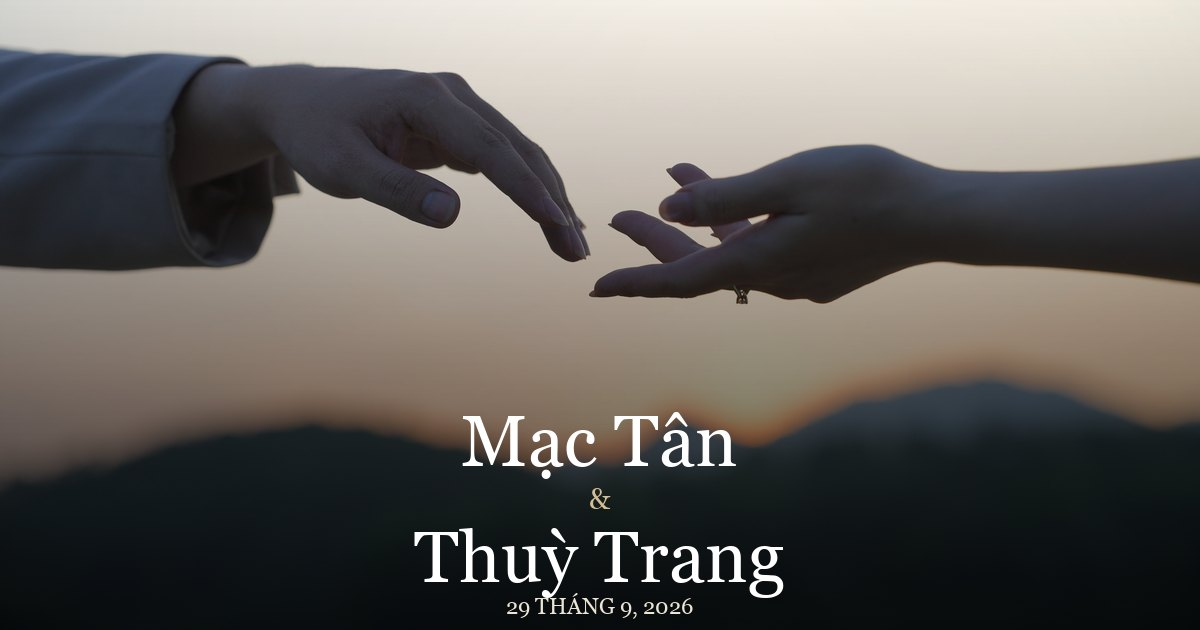
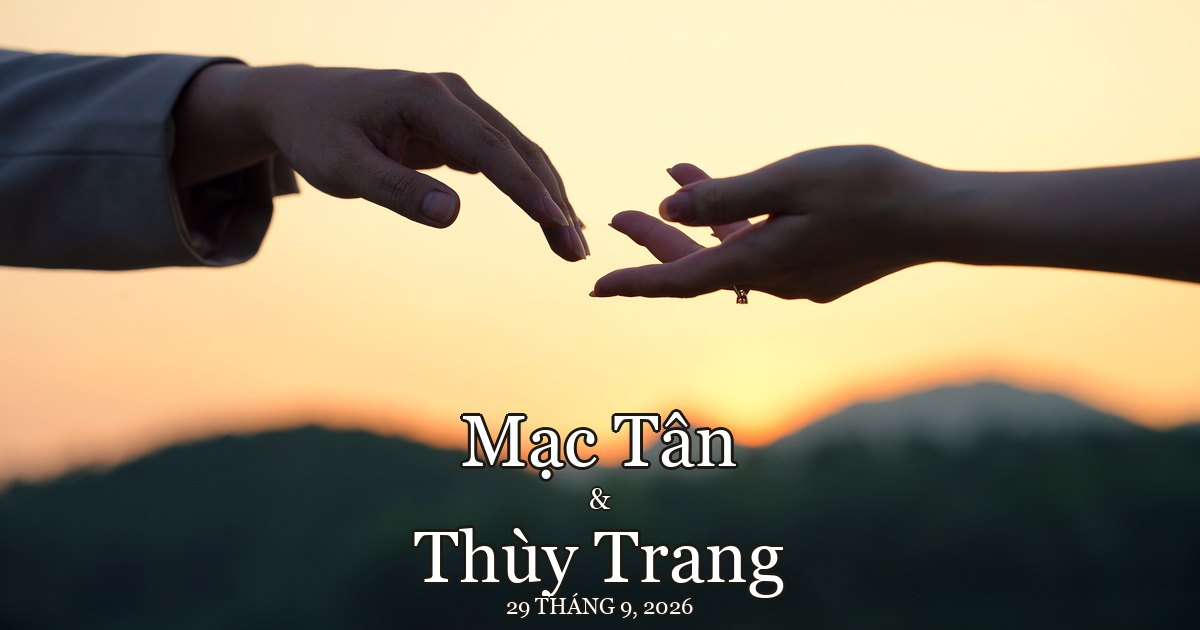
Kết nối form RSVP và chỉnh màu ảnh mở đầu
RSVP:
- Gắn URL Apps Script (/exec). Đã kiểm chứng: doGet trả {"ok":true}, doPost ghi
  được vào Sheet, và phản hồi có header CORS nên trình duyệt đọc được.
- Bỏ hẳn phương án dự phòng gửi bằng mode:'no-cors'. Kiểu gửi đó không đọc được
  phản hồi, nên endpoint sai thì trang vẫn báo "cảm ơn bạn" trong khi phản hồi
  rơi vào hư không. Với thiệp cưới, mất trắng danh sách khách tệ hơn nhiều so
  với một thông báo lỗi nhìn thấy được.
- Chặn sẵn trường hợp dán nhầm URL /dev: đó là bản thử nghiệm chỉ chạy khi chủ
  script đang đăng nhập, khách sẽ bị Google đòi đăng nhập.

Ảnh mở đầu:
- Chỉnh màu nướng thẳng vào file thay vì phủ lớp lên trên. Đường cong từng kênh
  đẩy đỏ ở vùng sáng và kéo lam xuống để ra sắc vàng đồng của hoàng hôn, làm sâu
  vùng tối để hai bàn tay thành bóng có khối.
- Độ lệch chuẩn kênh đỏ tăng 92.6 → 108.9, kênh lục 83.0 → 95.2: ảnh nét hơn
  chứ không phải bị làm phẳng. File còn 47 KB vì ảnh nhiều dải chuyển mượt.
- Vành bóng quanh chữ nhờ đó cũng khá lên: 15.3:1 desktop, 10.5:1 điện thoại.
- Ảnh xem trước khi gửi Zalo dùng cùng bản chỉnh màu.
- Kèm scripts/grade-hero.py để chỉnh lại hoặc đổi thông số về sau.

diff --git a/src/lib/rsvp.js b/src/lib/rsvp.js
@@ -4,16 +4,21 @@ import { config } from '../config'
  * Gửi phản hồi RSVP tới Google Apps Script Web App.
  *
  * Dùng Content-Type "text/plain" một cách có chủ đích: đây là "simple request"
- * nên trình duyệt không gửi preflight OPTIONS — thứ mà Apps Script không xử lý
+ * nên trình duyệt không gửi preflight OPTIONS - thứ mà Apps Script không xử lý
  * được. Phía Apps Script vẫn đọc được JSON qua e.postData.contents.
- *
- * Nếu vẫn bị CORS chặn, ta gửi lại ở chế độ no-cors: yêu cầu vẫn tới nơi và
- * ghi được vào Sheet, chỉ là trình duyệt không cho đọc phản hồi.
  */
 export async function submitRsvp(payload) {
   const endpoint = config.rsvp.endpoint?.trim()
+
   if (!endpoint) {
     return { ok: false, reason: 'not-configured' }
+  }
+
+  /* URL kết thúc bằng /dev là bản thử nghiệm của Apps Script: chỉ chạy khi
+     chính chủ script đang đăng nhập. Khách mở lên sẽ bị Google đòi đăng nhập
+     và phản hồi mất trắng. Bắt lỗi ngay từ đây thay vì để khách gặp. */
+  if (/\/dev\/?$/.test(endpoint)) {
+    return { ok: false, reason: 'dev-url' }
   }
 
   const body = JSON.stringify({ ...payload, submittedAt: new Date().toISOString() })
@@ -28,17 +33,11 @@ export async function submitRsvp(payload) {
     if (!res.ok) throw new Error(`HTTP ${res.status}`)
     return { ok: true }
   } catch {
-    // Kế hoạch B: gửi mù, không đọc phản hồi.
-    try {
-      await fetch(endpoint, {
-        method: 'POST',
-        mode: 'no-cors',
-        headers: { 'Content-Type': 'text/plain;charset=utf-8' },
-        body,
-      })
-      return { ok: true, opaque: true }
-    } catch {
-      return { ok: false, reason: 'network' }
-    }
+    /* Cố tình KHÔNG thử lại bằng mode:'no-cors'.
+       Kiểu gửi đó không đọc được phản hồi, nên nếu endpoint sai thì ta vẫn báo
+       "cảm ơn bạn" trong khi phản hồi rơi vào hư không - với thiệp cưới thì
+       đó là mất trắng danh sách khách, tệ hơn nhiều so với một thông báo lỗi
+       nhìn thấy được. Thà để khách biết mà gọi điện. */
+    return { ok: false, reason: 'network' }
   }
 }

diff --git a/src/lib/translations.js b/src/lib/translations.js
@@ -119,6 +119,8 @@ export const translations = {
       phoneInvalid: 'Số điện thoại chưa hợp lệ',
       notConfigured:
         'Form chưa được kết nối. Xem mục "Kết nối Google Sheets" trong README.md.',
+      devUrl:
+        'Link Apps Script đang là bản thử nghiệm (/dev). Phải dùng URL kết thúc bằng /exec của bản triển khai đặt quyền "Bất kỳ ai".',
     },
     footer: {
       thanks: 'Cảm ơn bạn đã là một phần trong câu chuyện của chúng mình.',
@@ -241,6 +243,8 @@ export const translations = {
       phoneInvalid: 'That phone number does not look right',
       notConfigured:
         'The form is not connected yet. See "Kết nối Google Sheets" in README.md.',
+      devUrl:
+        'The Apps Script link is a test URL (/dev). Use the /exec URL of a deployment set to "Anyone".',
     },
     footer: {
       thanks: 'Thank you for being part of our story.',

diff --git a/src/config.js b/src/config.js
@@ -92,7 +92,8 @@ export const config = {
   rsvp: {
     /* Dán URL Web App của Google Apps Script vào đây.
        Hướng dẫn lấy URL: xem file README.md, mục "Kết nối Google Sheets". */
-    endpoint: '',
+    endpoint:
+      'https://script.google.com/macros/s/AKfycbxmKteLt7lFj606bu12Es1gSiYnOnymG6YK7I4JLHf1LenGkw8-BWiPzF2lrF55YApd_g/exec',
     deadline: new Date(2026, 8, 15), // hạn phản hồi: 15/09/2026
     maxGuests: 6,
   },

diff --git a/src/components/Rsvp.jsx b/src/components/Rsvp.jsx
@@ -56,7 +56,11 @@ export default function Rsvp() {
     if (result.ok) {
       setStatus('success')
     } else {
-      setErrorText(result.reason === 'not-configured' ? t('rsvp.notConfigured') : t('rsvp.errorDesc'))
+      const reasons = {
+        'not-configured': t('rsvp.notConfigured'),
+        'dev-url': t('rsvp.devUrl'),
+      }
+      setErrorText(reasons[result.reason] ?? t('rsvp.errorDesc'))
       setStatus('error')
     }
   }

diff --git a/scripts/grade-hero.py b/scripts/grade-hero.py
@@ -1,0 +1,62 @@
+"""
+Chỉnh màu ảnh mở đầu và nướng thẳng vào file .webp.
+
+Chỉnh màu ở file ảnh chứ không phủ lớp lên trên: lớp phủ làm phẳng cả bức ảnh,
+còn đường cong màu thì làm sâu vùng tối, giữ vùng sáng và đẩy sắc hoàng hôn -
+ảnh trông nét hơn, đồng thời hai bàn tay thành bóng đậm để chữ trắng có chỗ bám.
+
+Chạy lại:  python3 scripts/grade-hero.py
+"""
+
+from PIL import Image, ImageOps, ImageEnhance
+import pathlib
+
+SRC = pathlib.Path("src/assets/prewedding_simplevows/NDL09829.JPG")
+DEST = pathlib.Path("src/assets/hero/NDL09829.webp")
+
+# Đường cong từng kênh màu (vào, ra). Đỏ được đẩy lên ở vùng sáng, lam bị kéo
+# xuống - đó là cách tạo ra sắc vàng đồng của hoàng hôn.
+CURVES = {
+    "r": [(0, 0), (50, 44), (128, 146), (205, 228), (255, 255)],
+    "g": [(0, 0), (50, 40), (128, 126), (205, 204), (255, 248)],
+    "b": [(0, 6), (50, 38), (128, 110), (205, 176), (255, 230)],
+}
+SATURATION = 1.16
+CONTRAST = 1.12
+LONG_EDGE = 2400
+QUALITY = 82
+
+
+def lut(points):
+    """Bảng tra 256 mức, nội suy tuyến tính qua các điểm điều khiển."""
+    pts = sorted(points)
+    table = []
+    for i in range(256):
+        for k in range(len(pts) - 1):
+            x0, y0 = pts[k]
+            x1, y1 = pts[k + 1]
+            if x0 <= i <= x1:
+                t = 0 if x1 == x0 else (i - x0) / (x1 - x0)
+                table.append(max(0, min(255, round(y0 + t * (y1 - y0)))))
+                break
+        else:
+            table.append(i)
+    return table
+
+
+def main():
+    with Image.open(SRC) as im:
+        im = ImageOps.exif_transpose(im).convert("RGB")
+        im.thumbnail((LONG_EDGE, LONG_EDGE), Image.LANCZOS)
+        im = im.point(lut(CURVES["r"]) + lut(CURVES["g"]) + lut(CURVES["b"]))
+        im = ImageEnhance.Color(im).enhance(SATURATION)
+        im = ImageEnhance.Contrast(im).enhance(CONTRAST)
+        DEST.parent.mkdir(parents=True, exist_ok=True)
+        im.save(DEST, "WEBP", quality=QUALITY, method=6)
+
+    kb = DEST.stat().st_size // 1024
+    print(f"{DEST}  {im.size[0]}x{im.size[1]}  {kb} KB")
+
+
+if __name__ == "__main__":
+    main()
